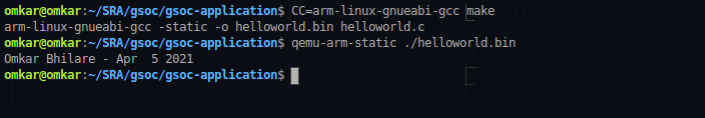
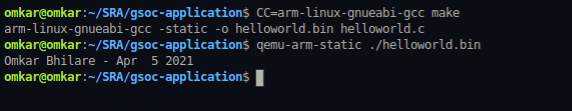
README updated

Changed region(s): [[0.0, 0.027, 0.8619, 0.7838], [0.6538, 0.5676, 0.6836, 0.5946]]

diff --git a/README.md b/README.md
@@ -1,15 +1,12 @@
-I've left my source code around as an example.  To build, run `make`.
+# GSOC proposal: Omkar Bhilare
 
-To cross-build so that it can run on an ARM platform, install a cross-compiler,
-then run `CC=${PATH_TO_ARM_CROSS} make` where ${PATH_TO_ARM_CROSS} for the
-Angstrom cross compilers would be "arm-angstrom-linux-gnueabi-gcc".  If you're
-using the emdebian cross compilers, then it would be "arm-linux-gnueabi-gcc".
+```
+CC=arm-linux-gnueabi-gcc make
+qemu-arm-static ./helloworld.bin
+```
+## OUTPUT:
 
-To execute the cross built binary, put it onto an ARM Linux system and invoke
-helloworld.bin.  To execute the cross built binary on QEMU, install qemu-static
-on your machine and run `qemu-arm-static ./helloworld.bin`.
-
-Jason Kridner
-jkridner on #beagle
-BeagleBoard.org GSoC admin
+<p align="center">
+    <img width="572" height="111" src="assets/omkar.png">
+</p>
 
